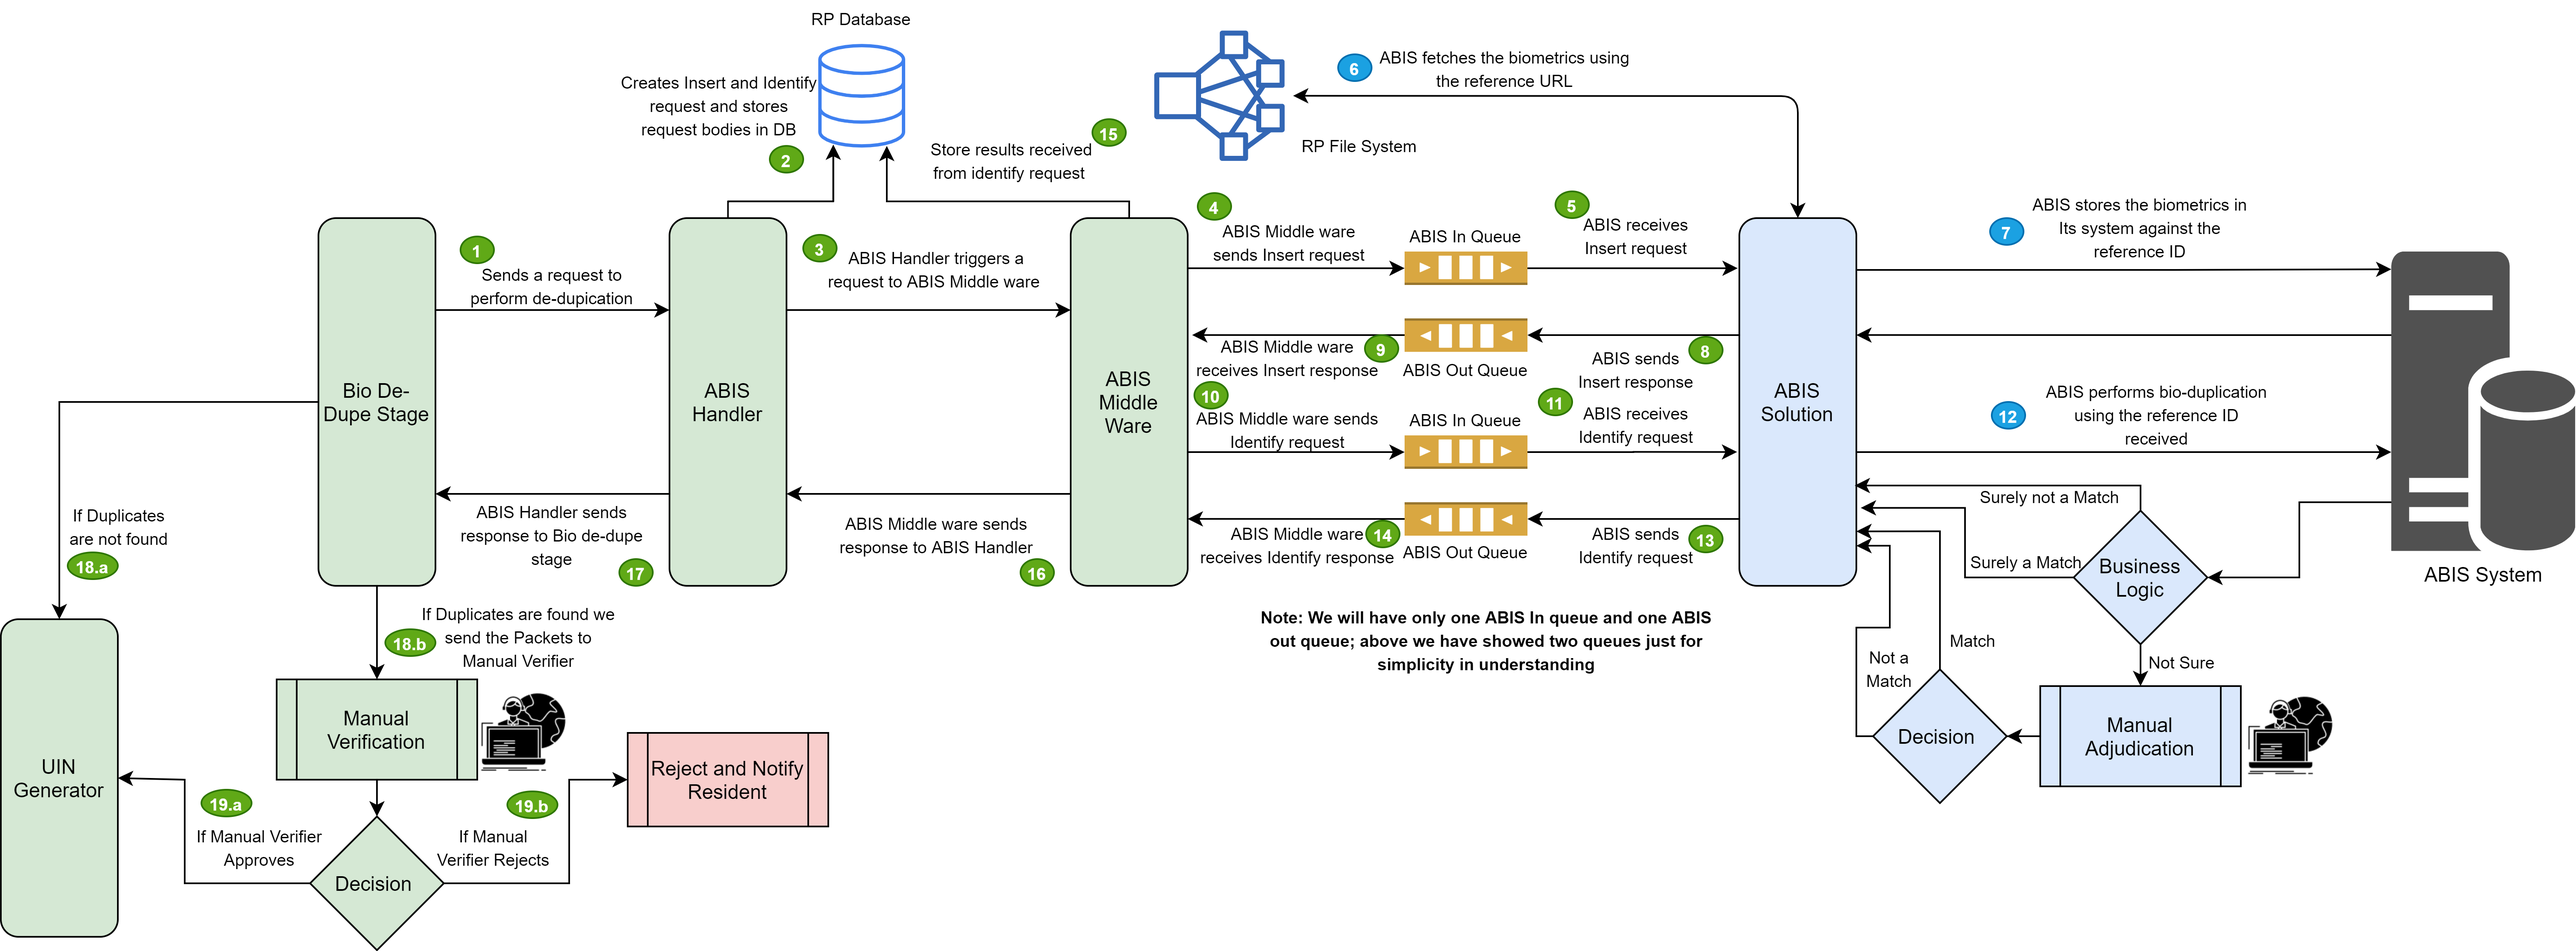
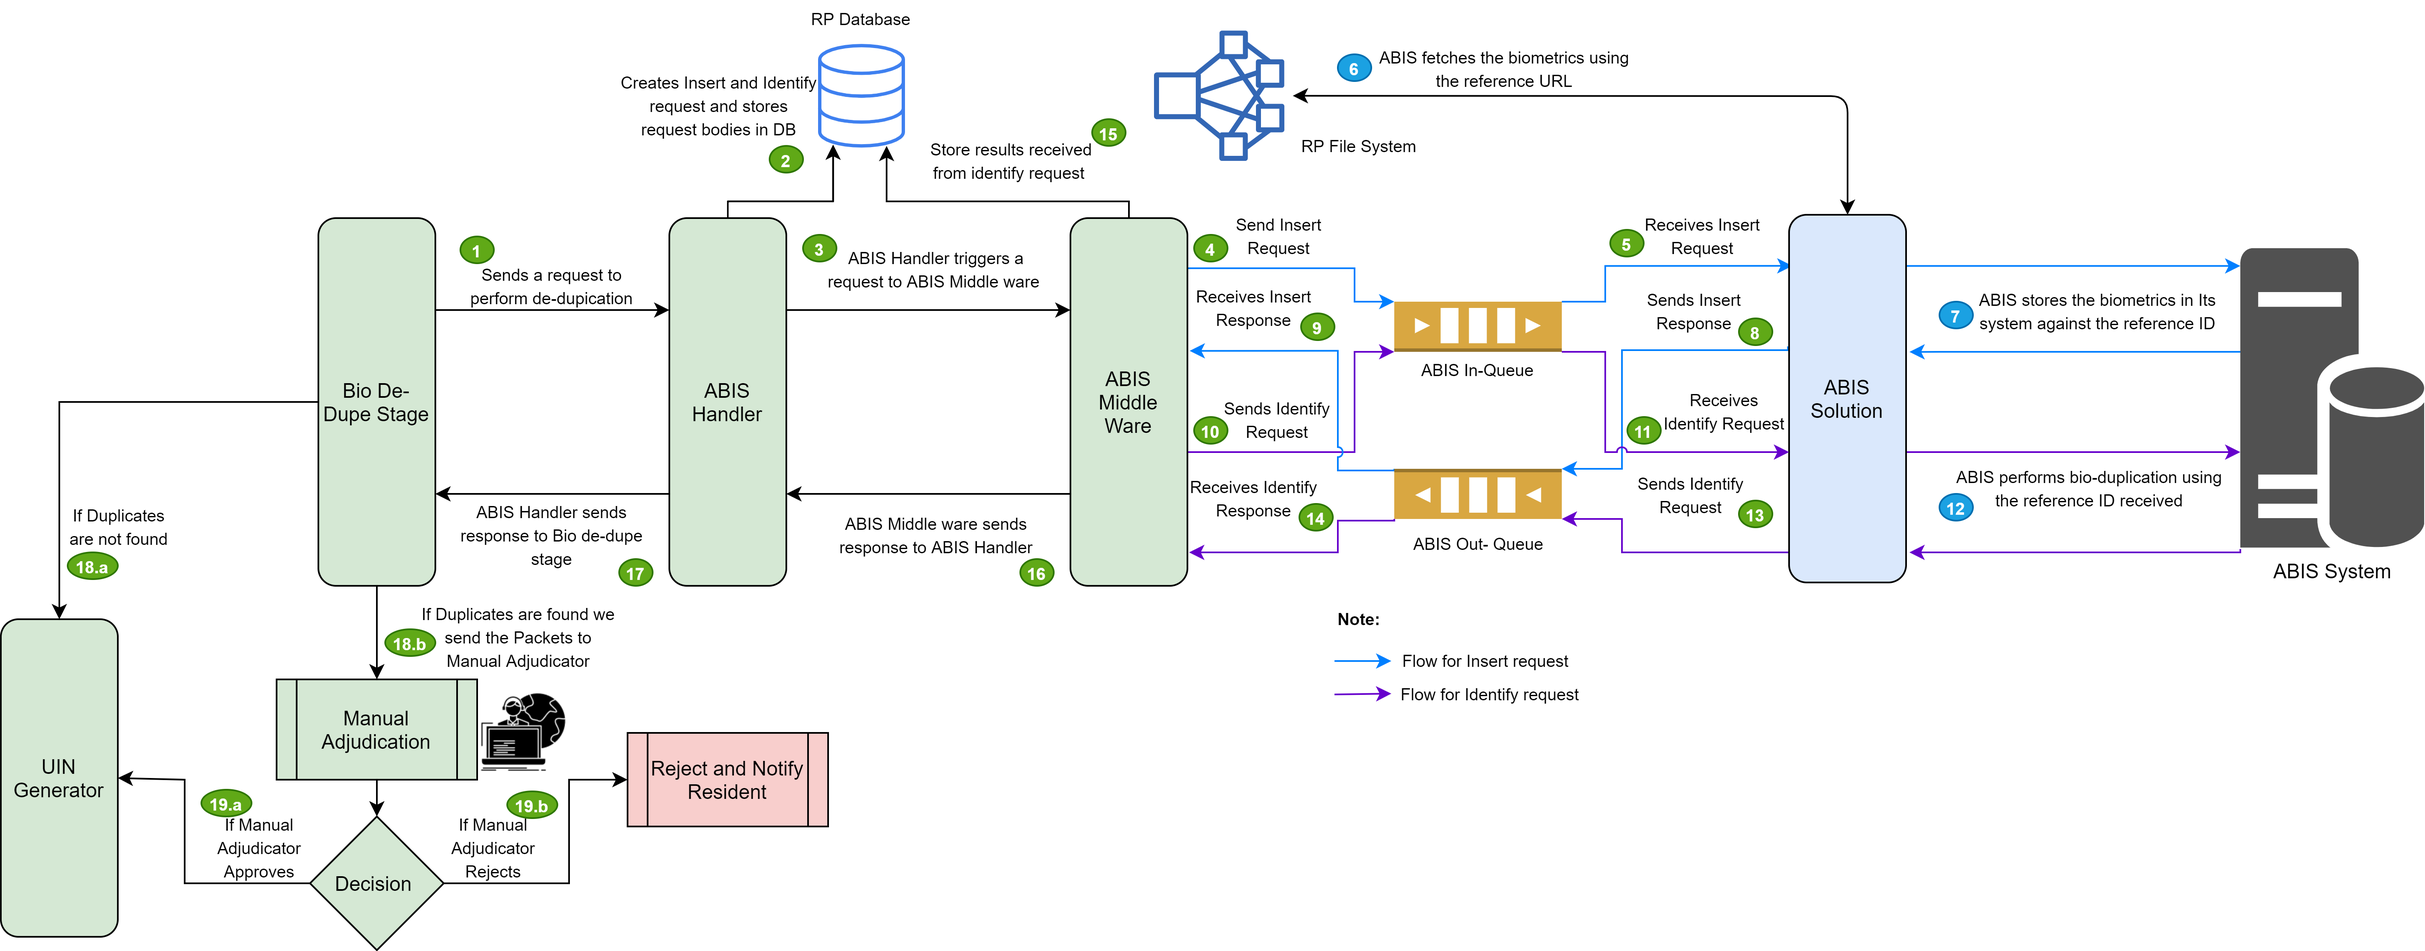
MOSIP-221 clean up for Verifier to Adjudicator

diff --git a/docs/Registration-Processor.md b/docs/Registration-Processor.md
@@ -6,7 +6,7 @@ Registration Processor processes the data (demographic and biometric) of an Indi
 Important considerations are as follows:
 
 * Once the packet is received on the server packets should not be lost.  
-* MOSIP defines and implement the basic registration packet processing flow. However, every country will have their own processing requirements  like integration with their existing ID system and fetch data for validation.  Registrataion processor provides options to add such stages.
+* MOSIP defines and implement the basic registration packet processing flow. However, every country will have their own processing requirements  like integration with their existing ID system and fetch data for validation.  Registration processor provides options to add such stages.
 * Registration processor has the capability to integrate with multiple ABIS providers.
 * Each processing stage is scalable independently based on the load.
 * Each stage in the processor is independent of other stages such that logic of a stage can be changed to improve efficiency without affecting the overall flow
@@ -17,27 +17,27 @@ Important considerations are as follows:
 # Process flow
 
 ## Packet Pre-Processing
-![](_images/reg_processor/packet_pre-processing_part_1.jpg)
+![](_images/reg_processor/packet_pre-processing_part_1.png)
 
-![](_images/reg_processor/packet_pre-processing_part_2.jpg)
+![](_images/reg_processor/packet_pre-processing_part_2.png)
 
 ## New Packet Processing
-![](_images/reg_processor/new_packet_processing_part_1.jpg)
+![](_images/reg_processor/new_packet_processing_part_1.png)
 
-![](_images/reg_processor/new_packet_processing_part_2.jpg)
+![](_images/reg_processor/new_packet_processing_part_2.png)
 
 ## Update Packet Processsing
-![](_images/reg_processor/update_packet_processing_part_1.jpg)
+![](_images/reg_processor/update_packet_processing_part_1.png)
 
-![](_images/reg_processor/update_packet_processing_part_2.jpg)
+![](_images/reg_processor/update_packet_processing_part_2.png)
 
 ## Lost UIN Packet Processing
-![](_images/reg_processor/lost_uin_packet_processing_part_1.jpg)
+![](_images/reg_processor/lost_uin_packet_processing_part_1.png)
 
-![](_images/reg_processor/lost_uin_packet_processing_part_2.jpg)
+![](_images/reg_processor/lost_uin_packet_processing_part_2.png)
 
 ## Activate/De-Activate Packet Processing
-![](_images/reg_processor/activate_deactivate_uin.jpg)
+![](_images/reg_processor/activate_deactivate_uin.png)
 
 # Logical View
 ![Registration Processor Logical view](_images/reg_processor/reg-proc-logical-view.png)

diff --git a/docs/Registration-Processor-Functionality.md b/docs/Registration-Processor-Functionality.md
@@ -1,4 +1,4 @@
-# ID Lifecycle Management 
+# ID Life cycle Management 
 When an individual visits a registration center to get an ID or update his/her ID details, a registration officer captures the individual’s demographic (name, date of birth, gender, etc.) and biometric (face, iris, fingerprint image) details in a Registration Client. The Registration Client packages the captured information in a secure way (in the form of encrypted packets) and sends it to Registration Processor for further processing. 
 
 The packet received from the Registration Client goes through various sanity checks and validations to perform various life cycle events. The various life cycle events that can be processed by Registration Processor are:
